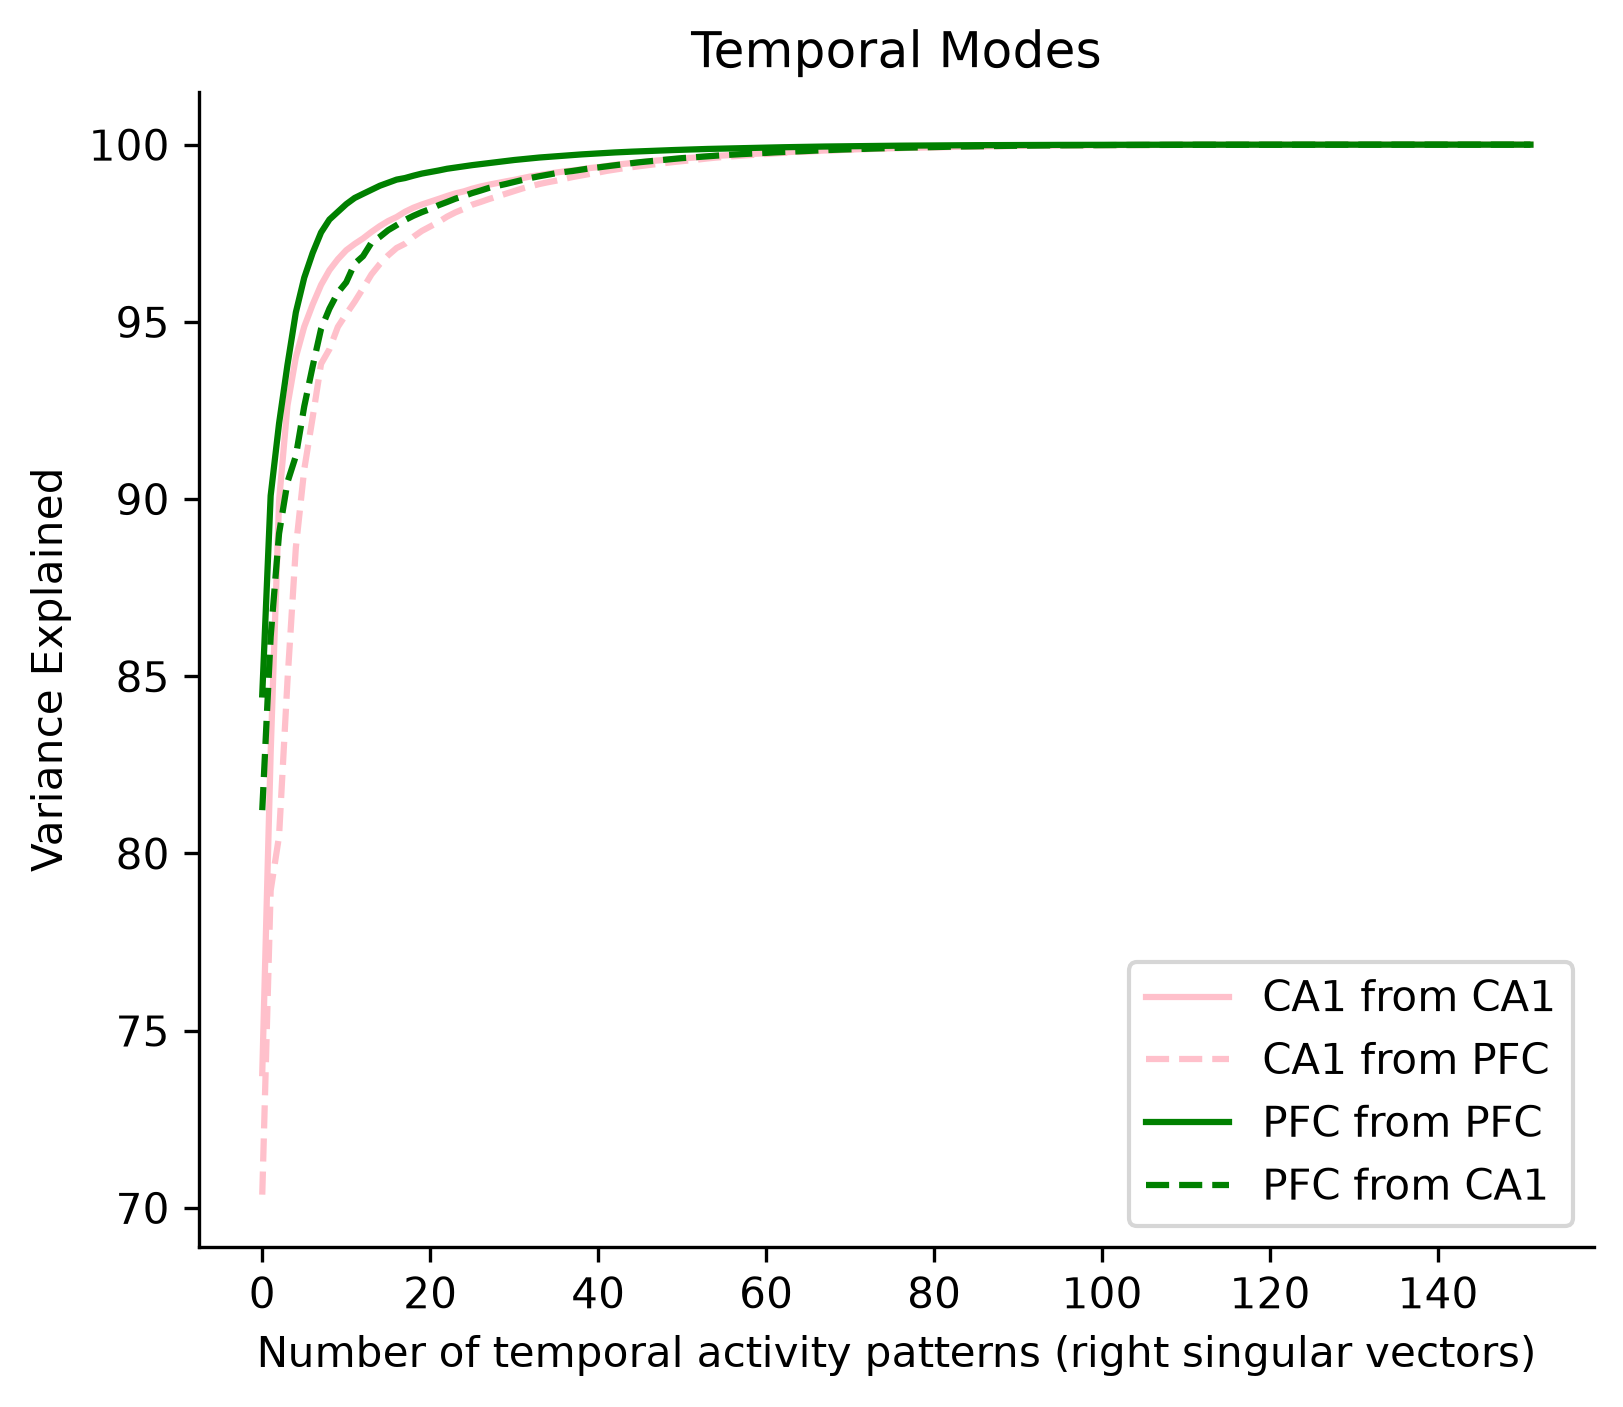
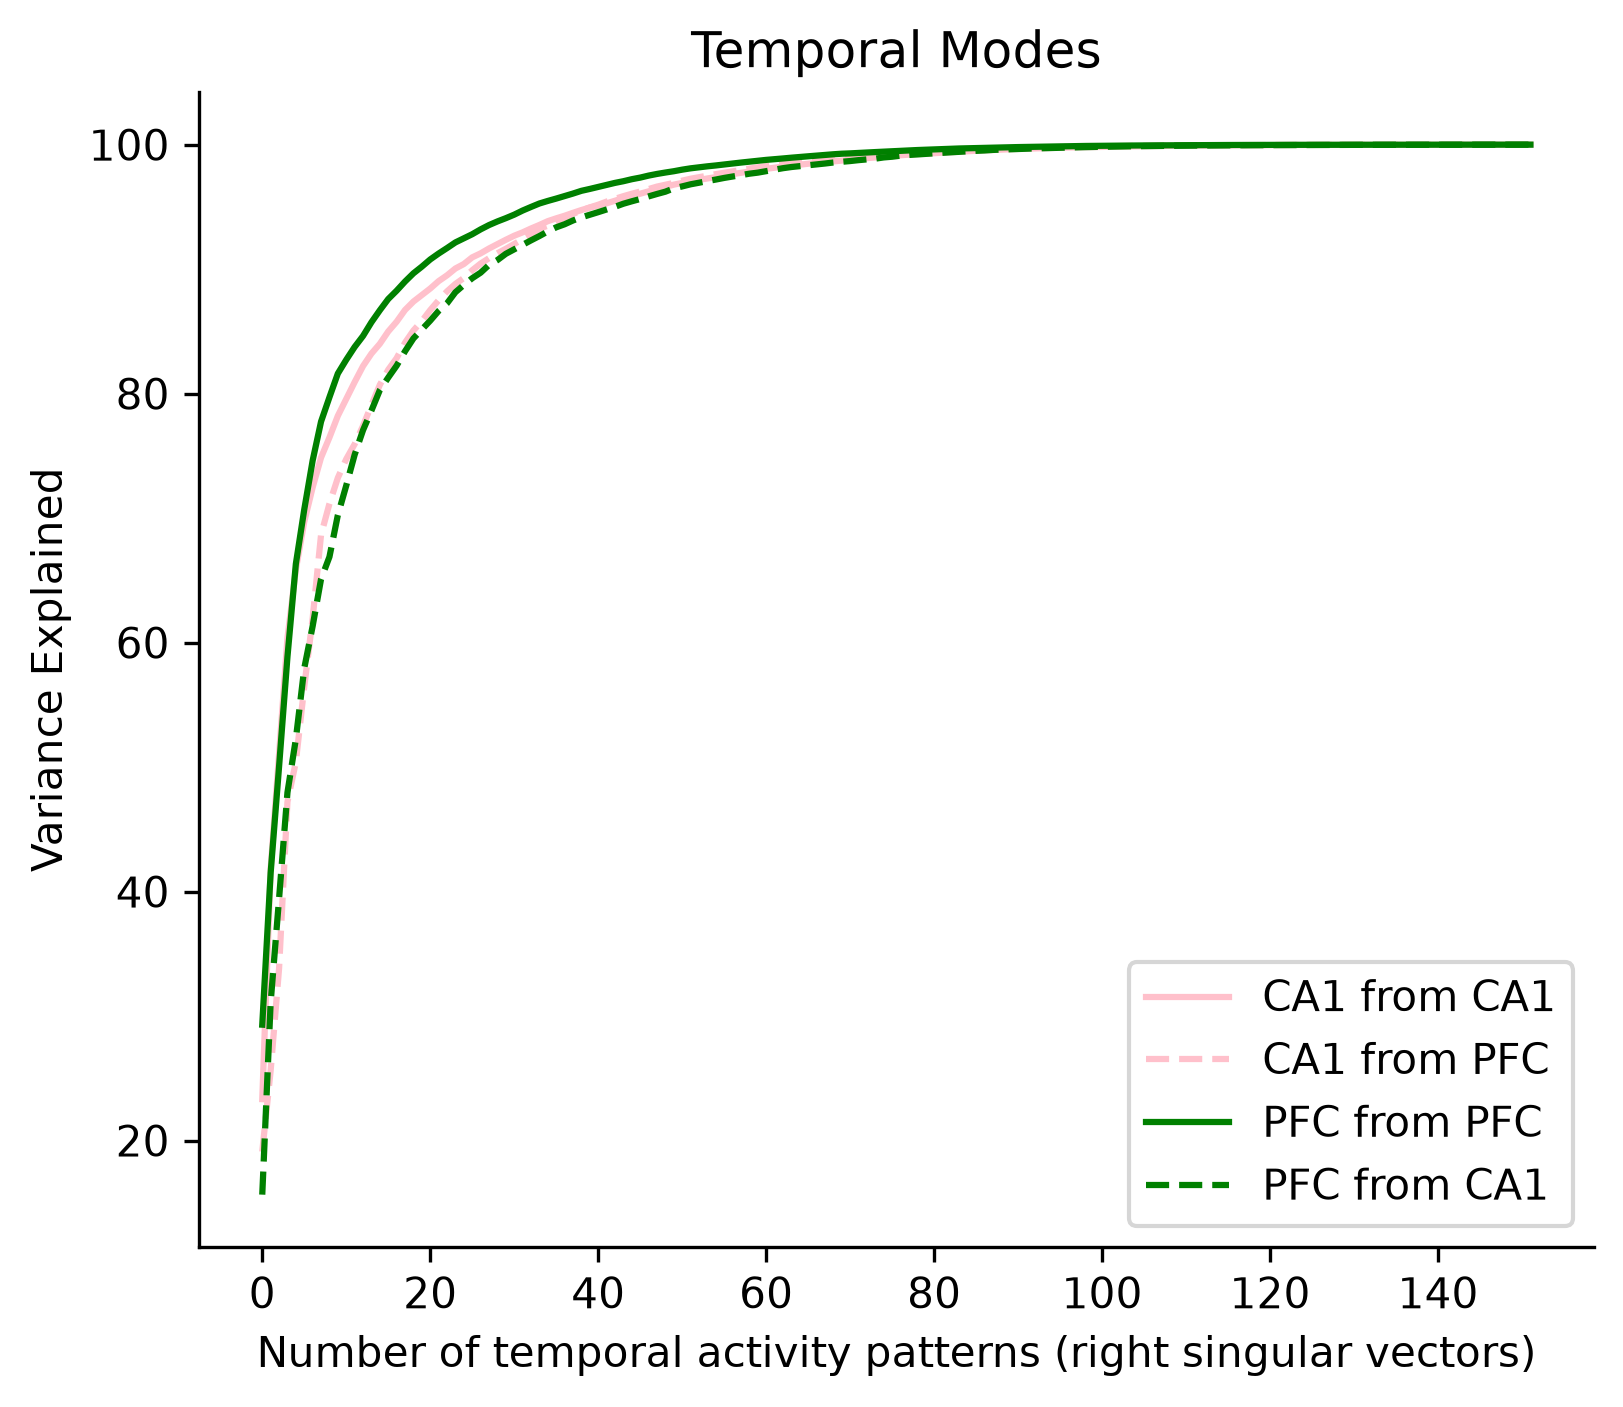
Fix Fig 5e to use DLC data with default inds, regenerate Ext 2i-j
- Fig 5e: paper says SVD used movement-residual firing rates; now calls
  svd_between_brains(HP_dlc, PFC_dlc) with default inds (~150 patterns)
- Ext 2i-j: regenerated with 3-decimal p values. B vs other p=0.001,
  A vs other p=0.052 (marginally non-significant after bug fix)

diff --git a/run_all_analyses.py b/run_all_analyses.py
@@ -169,7 +169,7 @@ steps = [
 
     ("Fig 5D-E | SVD between brains",
      "fig5de_svd_brains",
-     lambda: SVD.svd_between_brains(HP, PFC)),
+     lambda: SVD.svd_between_brains(HP_dlc, PFC_dlc)),
 
     ("Fig 5D-H | SVD main figure (session perms)",
      "fig5dh_svd_main",
